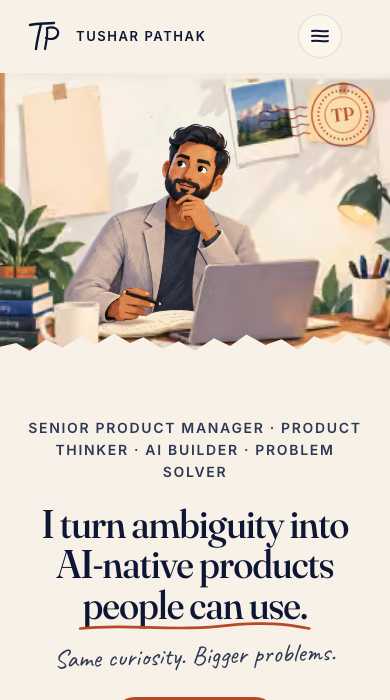
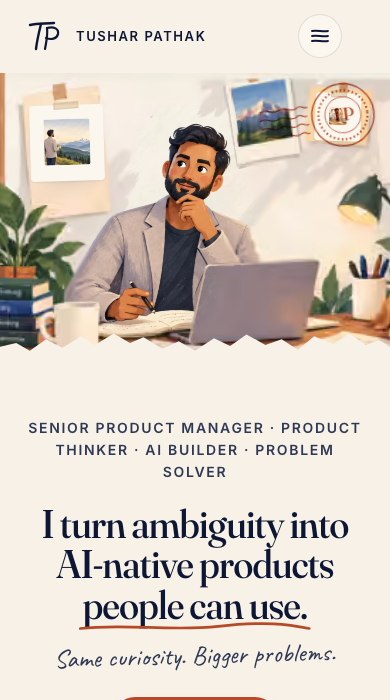
feat(hero): show the paper-pinned polaroids on phones too (TASK-108, TKT-111 r2)
Tushar 2026-09-26 "yes show polaroids there too": drop the >= 768 MediaGate; < 768 the same canvas-px
placement rides the 4:3 crop, and the large cream sheet (~18 % inside the crop, under the 80 % rule)
keeps its polaroid hidden. Placement guard now runs at w390/414 too.

Changed region(s): [[0.0615, 0.12, 0.2769, 0.27], [0.8, 0.12, 0.9231, 0.21], [0.3077, 0.39, 0.4, 0.45]]

diff --git a/tests/e2e/hero-fold.spec.ts b/tests/e2e/hero-fold.spec.ts
@@ -154,10 +154,12 @@ test("TKT-92r3 hero eyebrow + h1 keep their boxes across the font swap", async (
  * Replaces the TKT-98 corkboard guard: the corkboard is clean since TKT-105, so the rule is now that each
  * polaroid lies inside its blank paper's box (measured on hero-banner.webp, in 3168×1344 canvas px, ± a
  * small margin for the tilt), and none overlaps the character's face or the book titles. Measured at
- * rest (scroll 0) on the rendered (rotated) rects, as fractions of the banner box.
+ * rest (scroll 0) on the rendered (rotated) rects, as fractions of the banner canvas (`.scene-banner-canvas`
+ * — the box itself ≥ 768, the 4:3 crop's full-scene canvas < 768). < 768 (Tushar 2026-09-26: "yes show
+ * polaroids there too") only the papers ≥ 80 % inside the crop carry one: the large cream sheet is ≈ 18 %
+ * inside, so its polaroid must be hidden, and every visible polaroid must also lie inside the crop box.
  */
 test("hero polaroids sit on the banner's blank papers, clear of the face and the book titles", async ({ page }) => {
-  test.skip(width(page) < 768, "the polaroids are the ≥ 768 banner layout");
   const W = 3168;
   const H = 1344;
   const box = (x0: number, x1: number, y0: number, y1: number) => ({ l: x0 / W, r: x1 / W, t: y0 / H, b: y1 / H });
@@ -171,31 +173,42 @@ test("hero polaroids sit on the banner's blank papers, clear of the face and the
     { name: "book titles", ...box(430, 910, 940, 1260) },
   ];
   const tol = { x: 4 / W, y: 8 / H };
-  const widths = width(page) === 1440 ? [1024, 1440, 1920] : [width(page)];
+  const widths = width(page) === 1440 ? [1024, 1440, 1920] : width(page) === 390 ? [390, 414] : [width(page)];
   for (const w of widths) {
     await page.setViewportSize({ width: w, height: 900 });
     await page.goto("/", { waitUntil: "load" });
     await scrollToY(page, 0);
-    const rects = await page.evaluate(() => {
-      const banner = document.querySelector(".hero-banner .scene-banner")!.getBoundingClientRect();
-      return [...document.querySelectorAll(".hero-polaroid")].map((el) => {
-        const r = el.getBoundingClientRect();
-        return {
-          l: (r.left - banner.left) / banner.width,
-          r: (r.right - banner.left) / banner.width,
-          t: (r.top - banner.top) / banner.height,
-          b: (r.bottom - banner.top) / banner.height,
-        };
+    const { all, crop } = await page.evaluate(() => {
+      const canvas = document.querySelector(".hero-banner .scene-banner-canvas")!.getBoundingClientRect();
+      const box = document.querySelector(".hero-banner .scene-banner")!.getBoundingClientRect();
+      const frac = (r: DOMRect) => ({
+        l: (r.left - canvas.left) / canvas.width,
+        r: (r.right - canvas.left) / canvas.width,
+        t: (r.top - canvas.top) / canvas.height,
+        b: (r.bottom - canvas.top) / canvas.height,
       });
+      return {
+        crop: frac(box),
+        all: [...document.querySelectorAll(".hero-polaroid")].map((el) => ({
+          shown: getComputedStyle(el).display !== "none",
+          ...frac(el.getBoundingClientRect()),
+        })),
+      };
     });
-    expect(rects, `w${w}: one polaroid per blank paper`).toHaveLength(papers.length);
-    rects.forEach((p, i) => {
+    expect(all, `w${w}: one polaroid per blank paper`).toHaveLength(papers.length);
+    // A paper carries a visible polaroid iff ≥ 80 % of its width is inside the crop (always, ≥ 768).
+    const expectedShown = papers.map((pp) => (Math.min(pp.r, crop.r) - Math.max(pp.l, crop.l)) / (pp.r - pp.l) >= 0.8);
+    expect(all.map((p) => p.shown), `w${w}: visible polaroids (crop ${(crop.l * 100).toFixed(1)}–${(crop.r * 100).toFixed(1)} %)`).toEqual(expectedShown);
+    if (w < 768) expect(expectedShown, `w${w}: the large cream sheet is mostly outside the 4:3 crop`).toEqual([true, true, false]);
+    all.forEach((p, i) => {
+      if (!p.shown) return;
       const paper = papers[i]!;
       const at = `w${w}: polaroid ${i + 1} [${(p.l * 100).toFixed(1)}–${(p.r * 100).toFixed(1)} % × ${(p.t * 100).toFixed(1)}–${(p.b * 100).toFixed(1)} %]`;
       expect(p.l, `${at} starts inside the ${paper.name}`).toBeGreaterThanOrEqual(paper.l - tol.x);
       expect(p.r, `${at} ends inside the ${paper.name}`).toBeLessThanOrEqual(paper.r + tol.x);
       expect(p.t, `${at} tops inside the ${paper.name}`).toBeGreaterThanOrEqual(paper.t - tol.y);
       expect(p.b, `${at} bottoms inside the ${paper.name}`).toBeLessThanOrEqual(paper.b + tol.y);
+      expect(p.l >= crop.l - tol.x && p.r <= crop.r + tol.x, `${at} stays inside the crop`).toBe(true);
       for (const zone of keepClear) {
         const overlaps = p.l < zone.r && p.r > zone.l && p.t < zone.b && p.b > zone.t;
         expect(overlaps, `${at} overlaps the ${zone.name}`).toBe(false);

diff --git a/components/hero/Hero.tsx b/components/hero/Hero.tsx
@@ -5,7 +5,6 @@ import { HeroClip } from "@/components/hero/HeroClip";
 import { Postmark } from "@/components/hero/Postmark";
 import { clipSlotStyle } from "@/components/hero/registration";
 import { Annotation, Hand, Sheet, Sketch, Tape, TornEdge, type TapeSide } from "@/components/paper";
-import { MediaGate } from "@/components/paper/MediaGate";
 import { SceneBanner } from "@/components/paper/SceneBanner";
 import { hero } from "@/data/hero";
 import { illustration, sceneImage, type SceneId } from "@/lib/illustrations";
@@ -49,8 +48,9 @@ const BANNER_NARROW = {
  * sheet left of the character, the square yellow note top-right, the large cream sheet right; the
  * mountain photo and the (now clean, TKT-105) corkboard stay bare. They belong to the image layer, so
  * the paper sheet scrolls over them (TKT-96); positions live in app/globals.css
- * `.hero-polaroid:nth-child(n)` in banner-canvas units. Mounted ≥ 768 only (`MediaGate`, TP14) — below
- * that the 4:3 crop cuts the right-hand papers and they would crowd the character.
+ * `.hero-polaroid:nth-child(n)` in banner-canvas units. Rendered at every width (Tushar 2026-09-26: "yes
+ * show polaroids there too"): < 768 they ride the 4:3 crop on the same canvas units; the large cream
+ * sheet is only ≈ 18 % inside that crop, so its polaroid is hidden there (CSS). Lazy, never the LCP.
  */
 const POLAROIDS: readonly { id: SceneId; rotate: number; tape: TapeSide }[] = [
   { id: "scene-about", rotate: -1.6, tape: "c" },
@@ -81,16 +81,14 @@ export function Hero() {
           </div>
         </SceneBanner>
 
-        <MediaGate min={768}>
-          <div className="hero-polaroids" aria-hidden="true">
-            {POLAROIDS.map((polaroid) => (
-              <Sheet key={polaroid.id} variant="photo" rotate={polaroid.rotate} className="hero-polaroid">
-                <Tape side={polaroid.tape} />
-                <Image src={sceneImage(polaroid.id)} alt="" sizes="11vw" className="hero-polaroid-img" />
-              </Sheet>
-            ))}
-          </div>
-        </MediaGate>
+        <div className="hero-polaroids" aria-hidden="true">
+          {POLAROIDS.map((polaroid) => (
+            <Sheet key={polaroid.id} variant="photo" rotate={polaroid.rotate} className="hero-polaroid">
+              <Tape side={polaroid.tape} />
+              <Image src={sceneImage(polaroid.id)} alt="" sizes="(max-width: 767px) 20vw, 11vw" className="hero-polaroid-img" />
+            </Sheet>
+          ))}
+        </div>
 
         <Postmark className="hero-stamp" />
       </div>

diff --git a/app/globals.css b/app/globals.css
@@ -947,9 +947,10 @@ body::before {
      2382–2745 × 100–495. A polaroid is W wide and W + 12 tall (12 / 12 / 36 padding, square photo). */
   .hero-polaroid {
     --cpx: calc(100cqw / 3168);
+    --ox: 0px;
     position: absolute;
     top: calc(var(--y) * var(--cpx));
-    left: calc(var(--x) * var(--cpx));
+    left: calc(var(--ox) + var(--x) * var(--cpx));
     width: calc(var(--w) * var(--cpx));
     padding: calc(12 * var(--cpx)) calc(12 * var(--cpx)) calc(36 * var(--cpx));
   }
@@ -983,6 +984,20 @@ body::before {
     aspect-ratio: 1 / 1;
     object-fit: cover;
     border-radius: 2px;
+  }
+  /* < 768 (Tushar 2026-09-26: "yes show polaroids there too"): the same canvas units on the 4:3
+     art-directed crop — the canvas is the box's height tall (75vw) and 3168/1344 × that wide, its left
+     edge at 50 % − 0.49 × its width (`.scene-banner-canvas`, focal 0.49; TKT-92r2). The crop shows
+     canvas x ≈ 656–2448: the tall cream sheet and the yellow note are wholly inside, the large cream
+     sheet only ≈ 18 % (x 2382–2448 of 2382–2745), under the 80 % rule — its polaroid is hidden. */
+  @media (max-width: 767px) {
+    .hero-polaroid {
+      --cpx: calc(75vw / 1344);
+      --ox: calc(50% - 0.49 * 3168 * var(--cpx));
+    }
+    .hero-polaroid:nth-child(3) {
+      display: none;
+    }
   }
 
   /* Top-right corner, clear of the outpaint's own pinned checklist (the circle sits at the far right,

diff --git a/Design.md b/Design.md
@@ -518,6 +518,6 @@ Each row: what differs from the mockup or the earlier spec, why, and the disposi
 | Dev-49 | Ask panel quick-action chips under the input: "Browse my projects" links to `/projects` (TKT-101's route) and closes the panel; "Summarize my skills" submits that question (the local index answers it from the `skills` entry); the reference's "Compare experiences" is relabelled "Show my impact" and submits "What impact have you created?" | the retrieval index has no comparison answer — "Compare experiences" returns the empty fallback, so a chip promising it would claim something the panel cannot answer; the impact entry is the closest sourced, experience-level answer and the label says what it returns | Tushar direction 2026-09-26 (TKT-104) — confirm the relabel at the gate |
 | Dev-46 | New `/certifications` tab + nav item "Certifications" — a collage timeline of the five certifications in Tushar's reference (newest first by Credly issue date) + a "More on Credly" shelf of the other 17 badges; each certification is ONE `<a>` to its individual Credly credential (new tab), whole card clickable, Caveat "View credential ↗" micro-label, hover lift −4 px / −0.6° / deeper shadow + ↗ nudge (reduced motion: shadow only). No scene opener (no page scene exists; no new generated imagery) — opens on the torn title strip. Sticky notes are the card's own annotation: `aria-hidden` (Caveat), their words in the link's `aria-describedby`, not counted as decorations; section count 4 (title note · aside · collage · footer note). Dates / names stay Fraunces (§3.4), not the reference's marker lettering. PMP / SAFe are named on these surfaces only — now Credly-verified (CONTENT_INVENTORY §4.6's "banner-only" exclusion stands everywhere else; `CREDENTIAL_SURFACES` in scripts/forbidden-strings.ts)  Header fit: at 1024–1279 the nav drops to Fraunces 15 with a 16 px gap and the pill to 17 px / 12 px side padding, and at 1280–1439 the nav gap to 22 px, so six items pass QA-010 (≥ 16 px between controls); seven items (with TKT-101's Projects) do **not** fit at 1024–1279 even so — see docs/reports/TKT-102.md | Tushar direction 2026-09-26 (TKT-102): certifications-target.png + certifications-spec.md | Tushar (2026-09-26) |
 | Dev-56 | Credential badge artwork (Google Cloud, PMI, Scaled Agile, Scrum.org, AWS badges from Credly) renders as real images on `/certifications` — an EVAL-021 logo exception: they are Tushar's credentials, not brand decoration; files + sources in `public/media/certifications/README.md` | Tushar approved real logos 2026-09-26 | Tushar (2026-09-26) |
-| Dev-80 | Polaroids pinned onto the banner's blank papers — Tushar direction 2026-09-26 (TKT-111) | Tushar: "move polaroids to blank canvases behind". TKT-105 left the wall papers blank, so the three polaroids (`scene-about`, `scene-playground`, `scene-work`) each sit taped inside one blank paper — the tall cream sheet left of the character, the square yellow note top-right, the large cream sheet right — tilted ≤ 2°, positioned and sized in banner-canvas pixels so they track the scene at every width ≥ 768; hidden < 768 (4:3 crop). Three papers, three polaroids, so no new polaroid was generated; the mountain photo and the now-clean corkboard stay bare. Replaces Dev-21's "polaroids over the corkboard / bottom-left" placement and the TKT-98 corkboard guard | Tushar (2026-09-26) |
+| Dev-80 | Polaroids pinned onto the banner's blank papers — Tushar direction 2026-09-26 (TKT-111) | Tushar: "move polaroids to blank canvases behind". TKT-105 left the wall papers blank, so the three polaroids (`scene-about`, `scene-playground`, `scene-work`) each sit taped inside one blank paper — the tall cream sheet left of the character, the square yellow note top-right, the large cream sheet right — tilted ≤ 2°, positioned and sized in banner-canvas pixels so they track the scene at every width ≥ 768; < 768 (round 2, Tushar "yes show polaroids there too") the same units ride the 4:3 crop — the tall cream sheet and yellow note carry theirs, the large cream sheet (≈ 18 % inside the crop, under the 80 % rule) keeps its polaroid hidden; lazy, never the LCP. Three papers, three polaroids, so no new polaroid was generated; the mountain photo and the now-clean corkboard stay bare. Replaces Dev-21's "polaroids over the corkboard / bottom-left" placement and the TKT-98 corkboard guard | Tushar (2026-09-26) |
 
 Nothing here re-opens the palette (S12), typography (S13), hero (S14), the budget threshold (S15/EV5 — only its definitions are refined by D6), the band (S16) or the scope (§12.3–12.4).

diff --git a/docs/reports/TKT-111.md b/docs/reports/TKT-111.md
@@ -23,7 +23,7 @@ Keep-clear zones asserted in e2e: character's face 1400–1730 × 170–610, boo
 
 - `components/hero/Hero.tsx`: the POLAROIDS list was reordered and re-tilted, each with a centre tape. `sizes` went from 18vw to 11vw because the polaroids are now at most about 10.7 % of the canvas wide. The copy block was not touched (TKT-108's area).
 - `app/globals.css` `.hero-polaroid*`: position, size, padding and tape are all in banner-canvas pixels. `--cpx: calc(100cqw / 3168)`, where `.hero-banner` is the ≥ 768 inline-size container from TKT-96 and the box is the whole canvas, so each photo tracks its paper exactly at every width ≥ 768. The old `max(136px, …)` floors are gone. The polaroids are still in the parallax image layer.
-- **< 768:** still hidden (`MediaGate min={768}`), and no overflow at 390 (scrollWidth 390). The 4:3 crop cuts the large right sheet, and at 390 the polaroids would be about 30–45 px wide, so hiding them was the simpler of the two allowed options. At 390 the tall cream sheet and yellow note therefore show bare. If Tushar wants them filled on phones, a follow-up could show polaroids 1 and 2 there.
+- **< 768 (round 1):** hidden (`MediaGate min={768}`); superseded by round 2 below.
 
 ## Decisions
 
@@ -43,3 +43,15 @@ typecheck ✓ · lint ✓ · tokens:check 13/13 ✓ · vitest 592 passed ✓ · 
 The polaroids use lazy `next/image` loading without `priority`; the banner `<img fetchpriority=high>` is still the LCP (eval-019 static-HTML test).
 
 Screenshots: `docs/screenshots/m-009/tkt-111/home-banner-{1920,1440,1024,768,390}.png`. All were read: the three photos sit taped inside their papers at every width ≥ 768 and none shows at 390.
+
+## Round 2 — polaroids on phones (Tushar 2026-09-26: "yes show polaroids there too")
+
+- The `MediaGate min={768}` wrapper is gone, so the polaroids render at every width and are in the static HTML (`aria-hidden`, lazy `next/image`, `sizes="(max-width: 767px) 20vw, 11vw"`).
+- **Below 768** the same canvas-pixel placement applies to the 4:3 art-directed crop. `--cpx: calc(75vw / 1344)` (the canvas is the box height tall), and `--ox: calc(50% − 0.49 × 3168 × --cpx)` is the canvas's left edge from `.scene-banner-canvas` with focal 0.49 (TKT-92r2). The crop shows canvas x ≈ 656–2448.
+  - Tall cream sheet: 100 % inside the crop, so its polaroid is shown.
+  - Yellow note: 100 % inside, so its polaroid is shown.
+  - Large cream sheet: only ≈ 18 % inside (x 2382–2448 of 2382–2745), under the 80 % rule, so its polaroid stays **hidden** below 768 (`display: none`).
+- **e2e guard:** the test now runs in every project (w390 checks 390 and 414). Rects are measured against `.scene-banner-canvas`. The shown/hidden set must match the 80 % rule for the crop, and each shown polaroid must be inside its paper, inside the crop, and clear of the face and the book titles.
+- **LCP:** at 768–1920 the LCP is the banner `<img>`. In the non-touch 390/414 screenshot context it is the clip's poster `<video>`, because a fine pointer mounts the clip (EVAL-019). On real phones (coarse pointer) the clip never mounts, so it is the banner. In neither case is it a polaroid: all three are `loading="lazy"`, and the eval-019 static-HTML test (banner `<img fetchpriority=high>`) passes.
+- **Open issue for Tushar:** on phones the postmark (`.hero-stamp`, top-right, `clamp(120px, 11vw, 160px)`) sits almost exactly on the yellow note, so it mostly covers that polaroid (see `home-banner-390.png` / `-414.png`). I did not change the postmark because its position is an earlier design decision. The smallest fix would be a < 768 rule that shrinks the stamp (for example to about 88 px) or moves it clear of x ≈ 64–75 % of the canvas.
+- **Gates (round 2):** typecheck ✓ · lint ✓ · tokens 13/13 ✓ · vitest 592 ✓ · build ✓ · bundle `/` 158.9 kB ✓ · e2e hero-fold/home/eval-019/eval-018/eval-008, all 4 projects: **392 passed, 120 skipped, 0 failed**. Screenshots were refreshed at 1920/1440/1024/768/414/390 and read.
